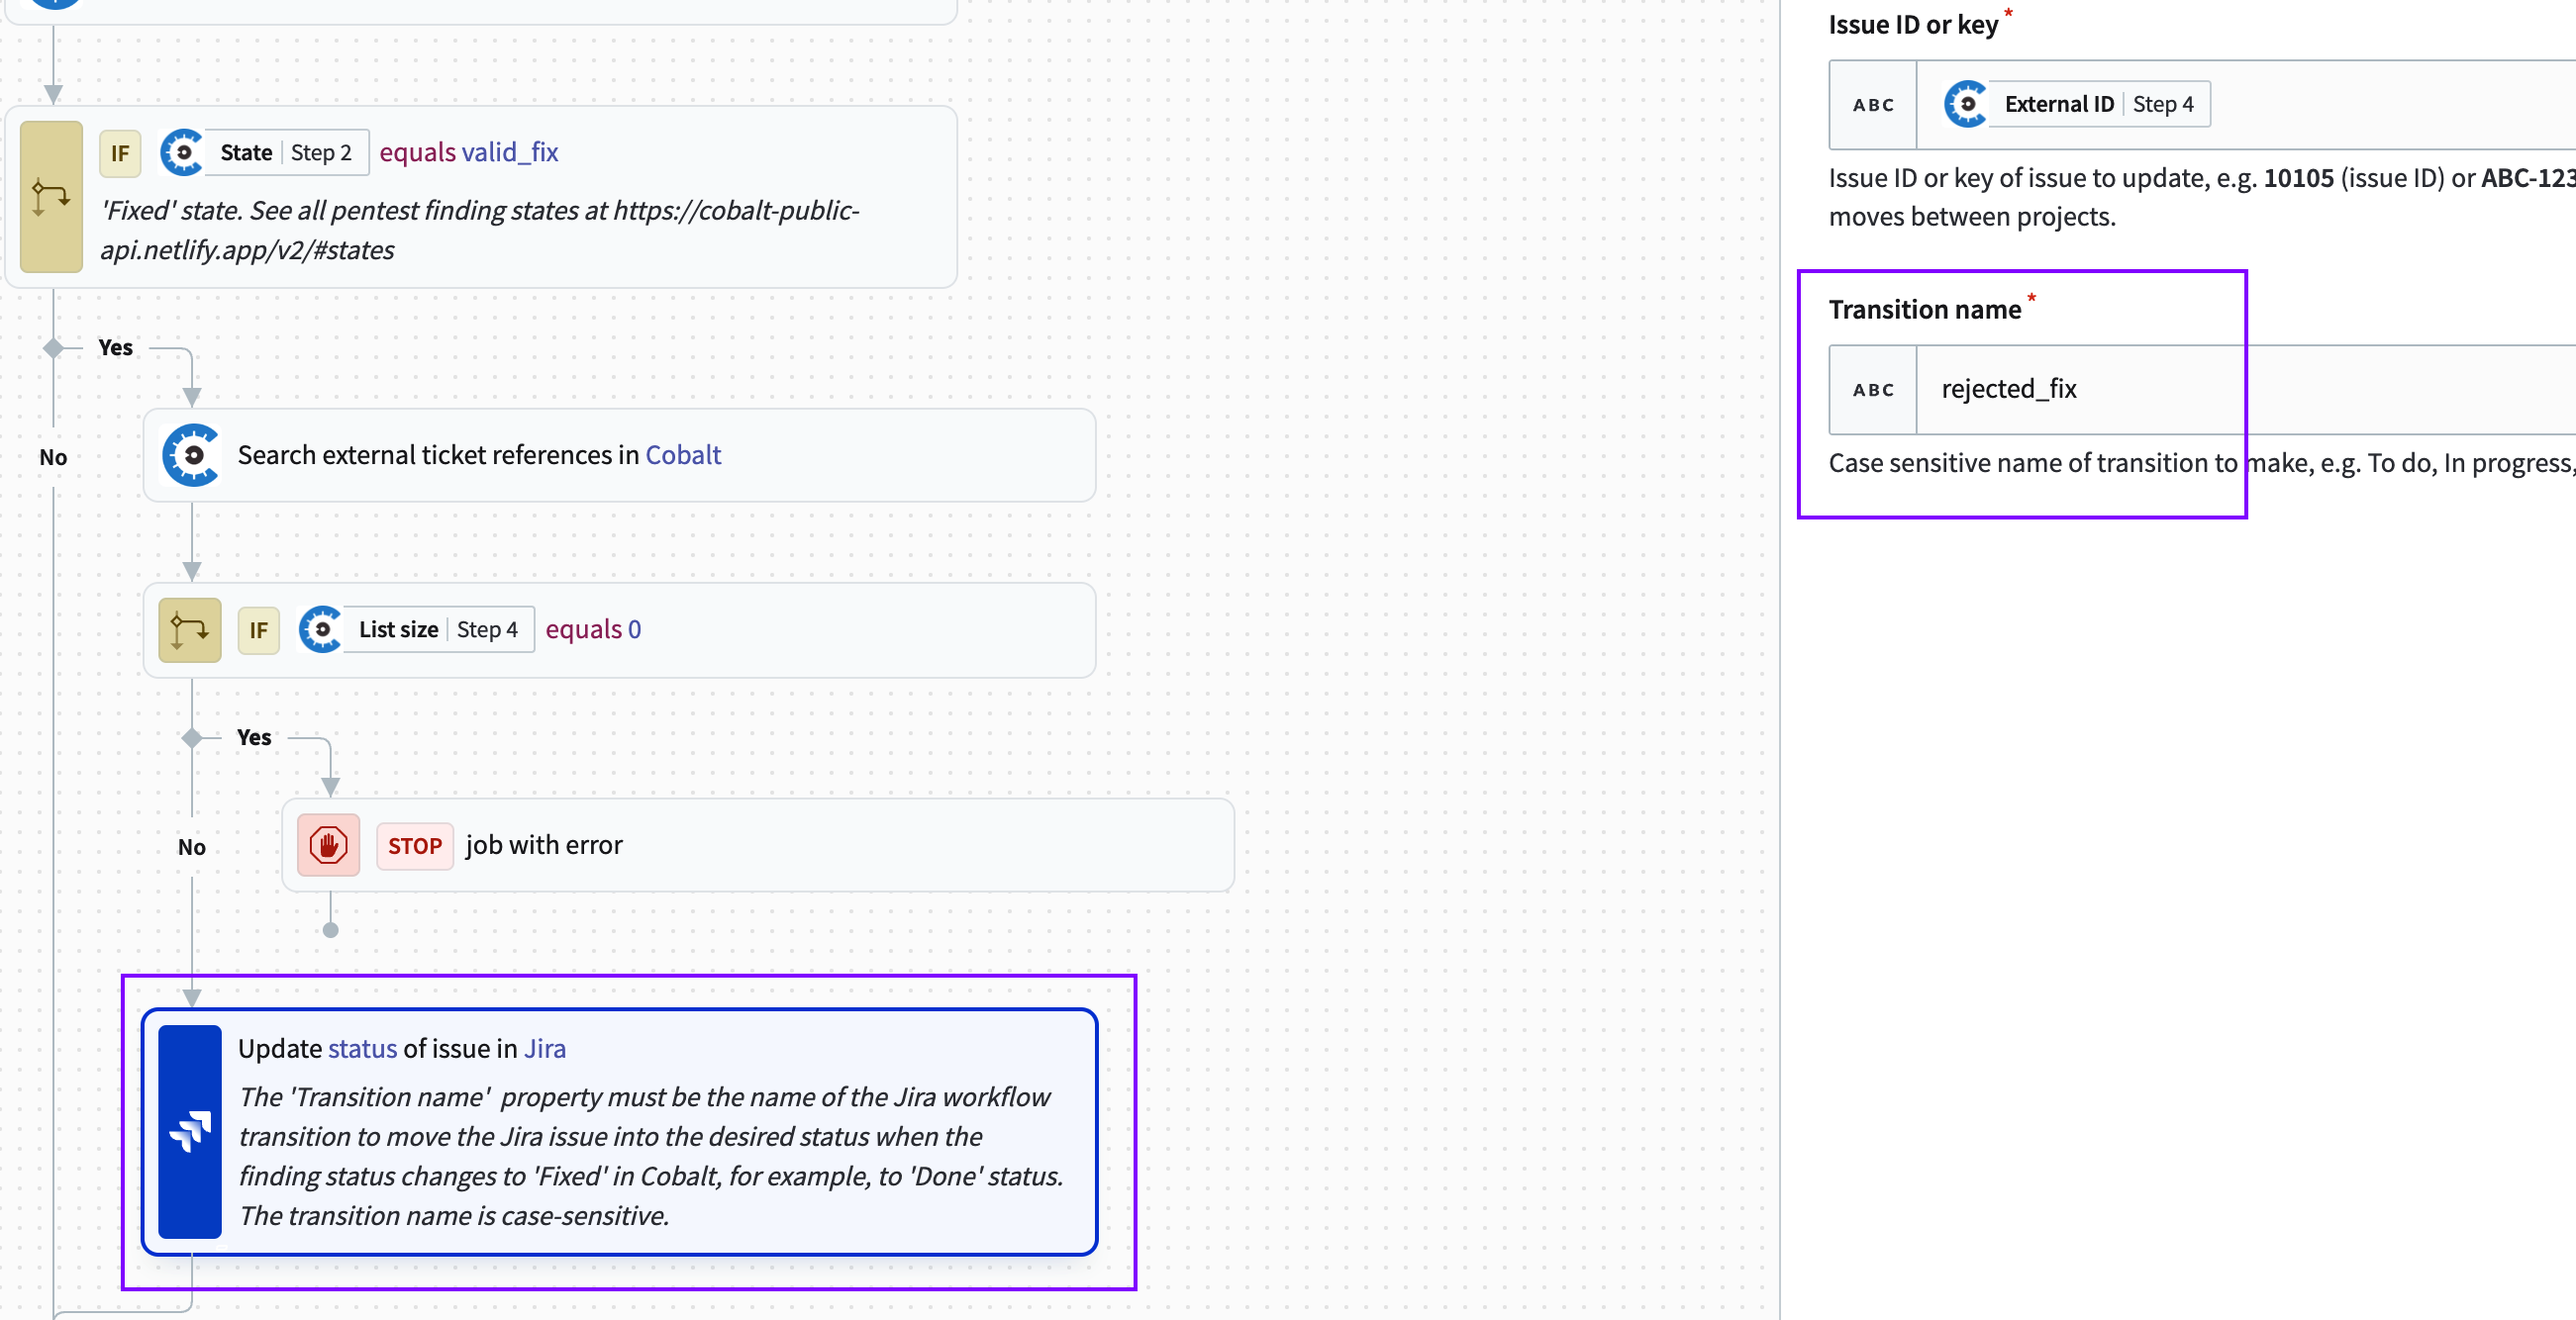
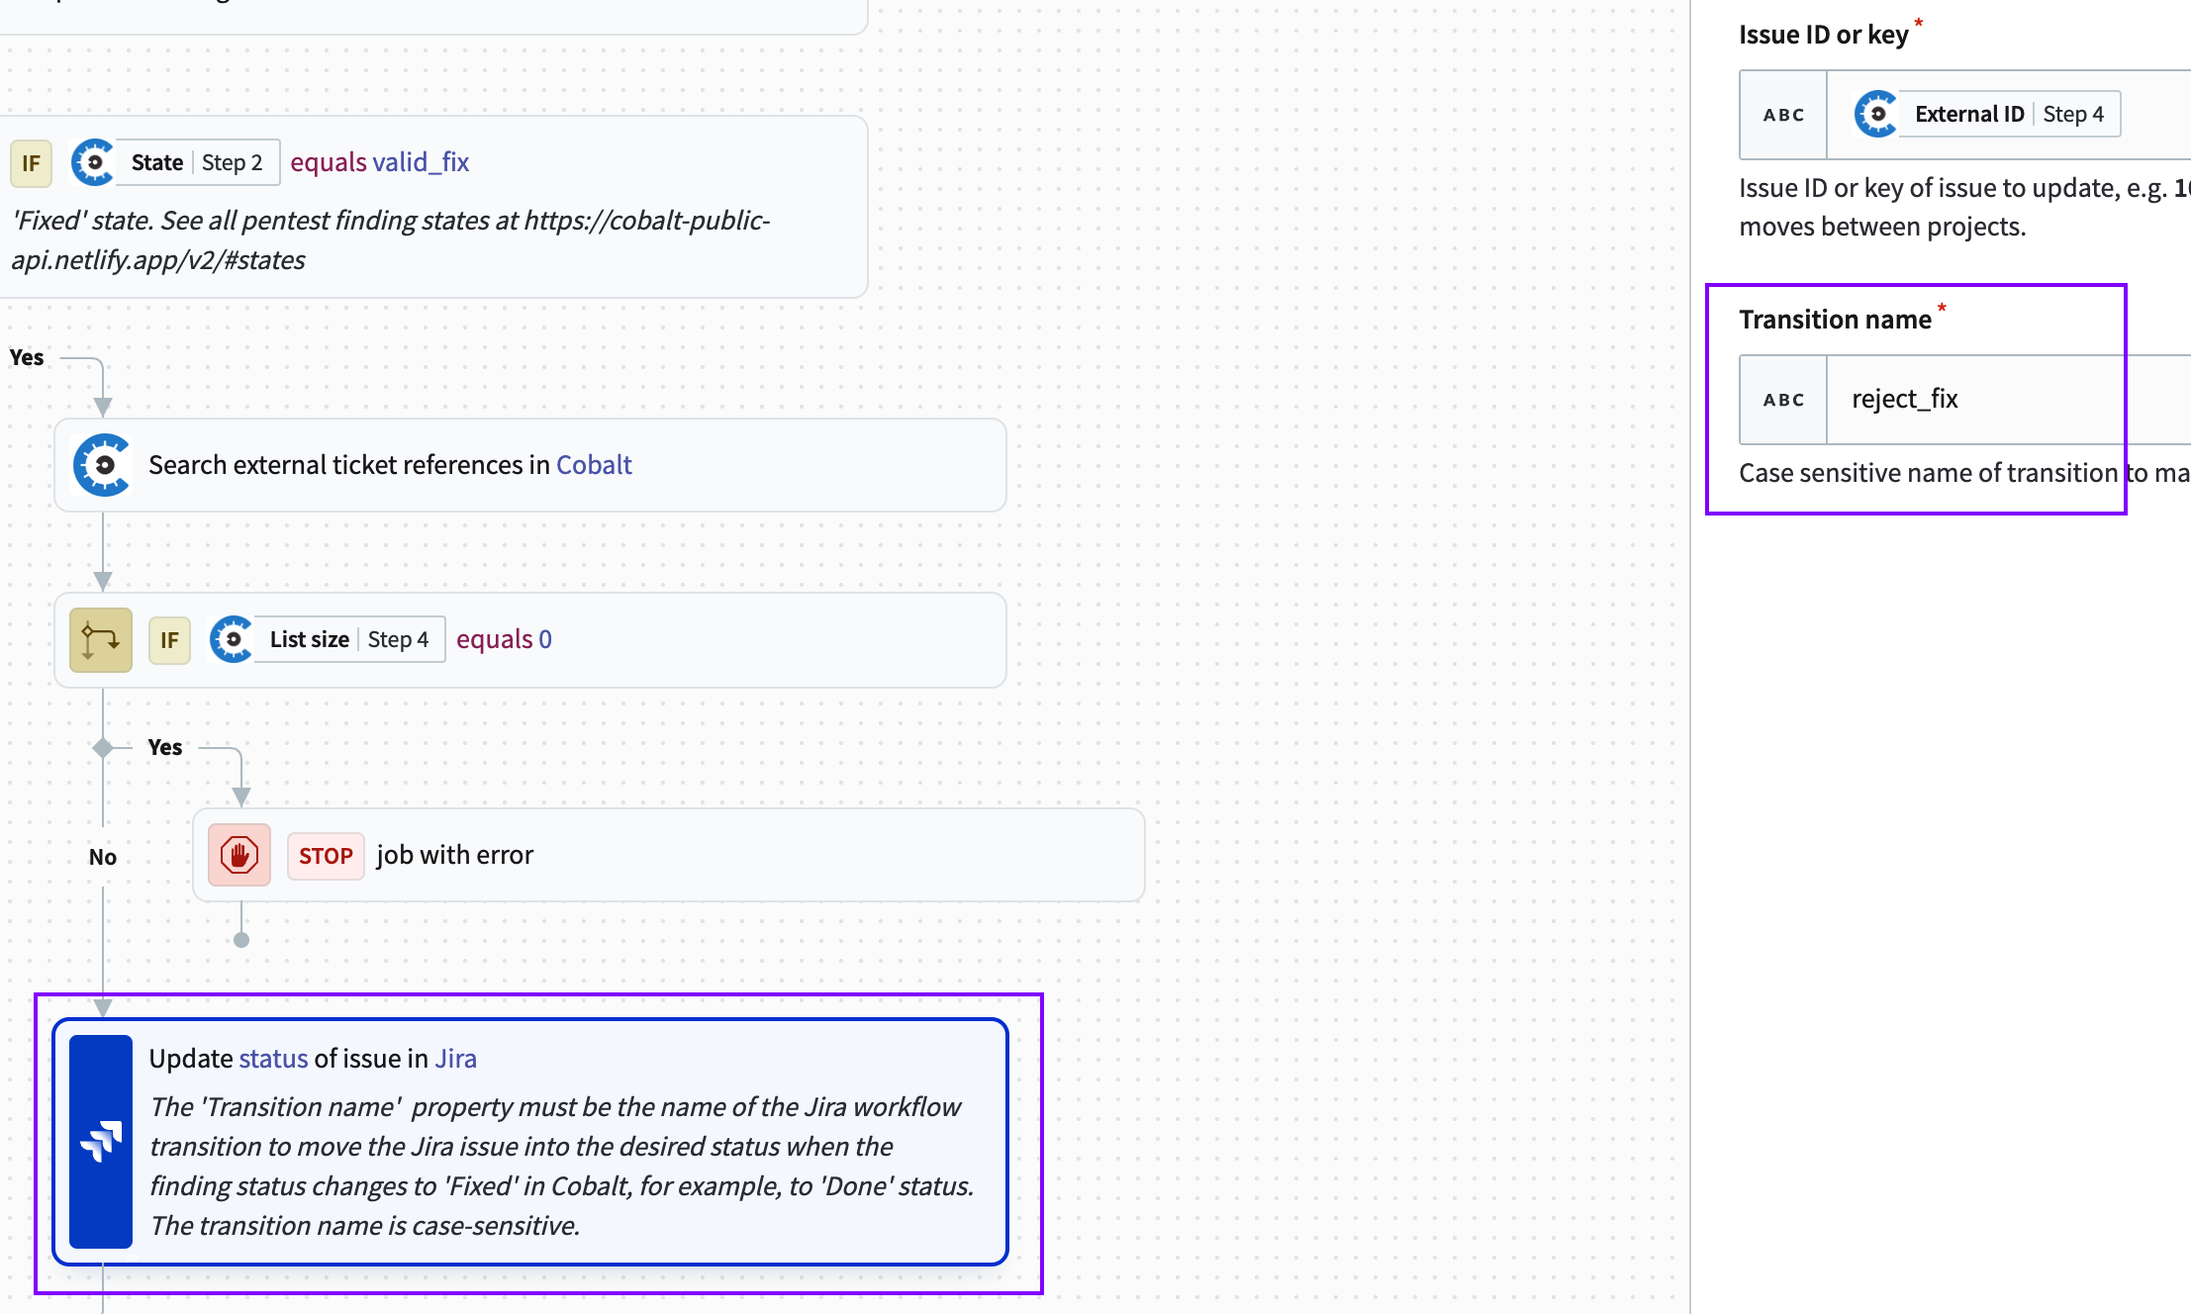
fix: typo in screenshot

diff --git a/content/en/Integrations/Jira/jira-cloud-migration.md b/content/en/Integrations/Jira/jira-cloud-migration.md
@@ -35,7 +35,7 @@ Additionally, if you want to update your Jira Cloud issue status based on the pe
 
 ### Introduction
 
-To better understand the required migration steps and the recipes' configuration, this tutorial provides an introduction to a sample Jira Cloud project using the default [Kanban](https://www.atlassian.com/software/jira/templates/kanban) template. Let's assume that the workflow for the **Task** issue type of this sample project includes the following statuses:
+To better understand the required migration steps and the recipes' customization, this tutorial provides an introduction to a sample Jira Cloud project using the default [Kanban](https://www.atlassian.com/software/jira/templates/kanban) template. Let's assume that the workflow for the **Task** issue type of this sample project includes the following statuses:
 
 #### Initial Jira workflow
 
